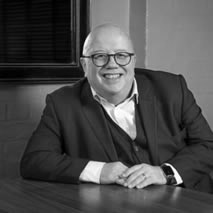
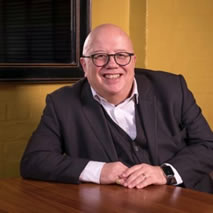
Applies greyscale to imgs in authors.js + loads authors with a test_book

diff --git a/pages/authors/index.js b/pages/authors/index.js
@@ -16,12 +16,15 @@ const Authors = ({ allAuthorData }) => {
         return (
             <Link href={`/authors/${author.id}`} className={styles.gridItem} key={author.id}>
                 <a>
-                    <Image 
-                        src={author.image}
-                        alt={`${author.first_name} ${author.last_name}`}
-                        width={400}
-                        height={500}
-                    />
+                        <Image 
+                            className={styles.img}
+                            src={author.image}
+                            alt={`${author.first_name} ${author.last_name}`}
+                            
+                            width={400}
+                            height={500}
+                            
+                        />
                     <h2 className={styles.authorTitle}>{author.first_name} {author.last_name}</h2>
                 </a>
             </Link>
@@ -50,12 +53,12 @@ const getStaticProps = async () => {
     const allAuthorData = getAllAuthorData();
     allAuthorData.map((author) => {
         console.log('author', author)
-        author.book_releases.map((book_release) => {
-            const dateObj = new Date(book_release.release_date)
-            const dateString = dateObj.toLocaleDateString("en-GB", { day: 'numeric', month: 'long', year: 'numeric' })
-            book_release.release_date = dateString;
-            return book_release;
-        })
+        // author.book_releases.map((book_release) => {
+        //     const dateObj = new Date(book_release.release_date)
+        //     const dateString = dateObj.toLocaleDateString("en-GB", { day: 'numeric', month: 'long', year: 'numeric' })
+        //     book_release.release_date = dateString;
+        //     return book_release;
+        // })
         const dateObj = new Date(author.date)
         const dateString = dateObj.toLocaleDateString("en-GB", { day: 'numeric', month: 'long', year: 'numeric' })
         author.date = dateString;

diff --git a/styles/Authors.module.css b/styles/Authors.module.css
@@ -13,6 +13,14 @@
     font-family: 'Open Sans', sans-serif;
     font-weight: 600;
 }
+.img {
+    object-fit: cover;
+    -webkit-filter: grayscale(100%);
+    -moz-filter: grayscale(100%);
+    -ms-filter: grayscale(100%);
+    filter: grayscale(100%);
+    filter: gray; /* IE 6-9 */
+}
 @media screen and (min-width: 768px) {
     .gridWrapper {
         /* margin: -7rem auto; */

diff --git a/styles/AuthorID.module.css b/styles/AuthorID.module.css
@@ -3,7 +3,7 @@
     position: unset !important;
 }
 .image {
-    object-fit: contain;
+    object-fit: cover;
     width: 100% !important;
     position: relative !important;
     height: unset !important;

diff --git a/_books/allen_test_book.md b/_books/allen_test_book.md
@@ -1,0 +1,18 @@
+---
+authors_first_name: Philippa
+authors_last_name: Langley
+title: Test Book
+publish_date: 2022-04-28T10:19:00.772Z
+genre: history
+image: /images/book_images/langley_the_kings_grave.jpg
+book_reviews:
+    - review: The book was fabulous!
+      by: The Sunday Times
+    - review: Highly recommend 
+      by: New York Times
+---
+The real life, death and remarkable discovery of history's most controversial monarch.
+
+On 22 August 1485 Richard III was killed at Bosworth Field, the last king of England to die in battle. His victorious opponent, Henry Tudor (the future Henry VII), went on to found one of our most famous ruling dynasties. Richard's body was displayed in undignified fashion for two days in nearby Leicester and then hurriedly buried in the church of the Greyfriars. Fifty years later, at the time of the dissolution of the monasteries, the king's grave was lost - its contents believed to be emptied into the river Soar - and Richard III's reputation buried under a mound of Tudor propaganda. Its culmination was Shakespeare's compelling portrayal of a deformed and murderous villain, written over a hundred years after Richard's death.
+
+Now - in an incredible find - Richard III's remains have been uncovered beneath a car park in Leicester. The King's Grave traces this remarkable journey. In alternate chapters, Philippa Langley, whose years of research and belief that she would find Richard in this exact spot inspired the project, reveals the inside story of the search for the king's grave, and historian Michael Jones tells of Richard's fifteenth-century life and death. The result is a compelling portrayal of one of our greatest archaeological discoveries, allowing a complete re-evaluation of our most controversial monarch - one that discards the distortions of later Tudor histories and puts the man firmly back into the context of his times.

diff --git a/_books/ambrose_test_book.md b/_books/ambrose_test_book.md
@@ -1,0 +1,18 @@
+---
+authors_first_name: Philippa
+authors_last_name: Langley
+title: Test Book
+publish_date: 2022-04-28T10:19:00.772Z
+genre: history
+image: /images/book_images/langley_the_kings_grave.jpg
+book_reviews:
+    - review: The book was fabulous!
+      by: The Sunday Times
+    - review: Highly recommend 
+      by: New York Times
+---
+The real life, death and remarkable discovery of history's most controversial monarch.
+
+On 22 August 1485 Richard III was killed at Bosworth Field, the last king of England to die in battle. His victorious opponent, Henry Tudor (the future Henry VII), went on to found one of our most famous ruling dynasties. Richard's body was displayed in undignified fashion for two days in nearby Leicester and then hurriedly buried in the church of the Greyfriars. Fifty years later, at the time of the dissolution of the monasteries, the king's grave was lost - its contents believed to be emptied into the river Soar - and Richard III's reputation buried under a mound of Tudor propaganda. Its culmination was Shakespeare's compelling portrayal of a deformed and murderous villain, written over a hundred years after Richard's death.
+
+Now - in an incredible find - Richard III's remains have been uncovered beneath a car park in Leicester. The King's Grave traces this remarkable journey. In alternate chapters, Philippa Langley, whose years of research and belief that she would find Richard in this exact spot inspired the project, reveals the inside story of the search for the king's grave, and historian Michael Jones tells of Richard's fifteenth-century life and death. The result is a compelling portrayal of one of our greatest archaeological discoveries, allowing a complete re-evaluation of our most controversial monarch - one that discards the distortions of later Tudor histories and puts the man firmly back into the context of his times.

diff --git a/_books/andress_test_book.md b/_books/andress_test_book.md
@@ -1,0 +1,18 @@
+---
+authors_first_name: Philippa
+authors_last_name: Langley
+title: Test Book
+publish_date: 2022-04-28T10:19:00.772Z
+genre: history
+image: /images/book_images/langley_the_kings_grave.jpg
+book_reviews:
+    - review: The book was fabulous!
+      by: The Sunday Times
+    - review: Highly recommend 
+      by: New York Times
+---
+The real life, death and remarkable discovery of history's most controversial monarch.
+
+On 22 August 1485 Richard III was killed at Bosworth Field, the last king of England to die in battle. His victorious opponent, Henry Tudor (the future Henry VII), went on to found one of our most famous ruling dynasties. Richard's body was displayed in undignified fashion for two days in nearby Leicester and then hurriedly buried in the church of the Greyfriars. Fifty years later, at the time of the dissolution of the monasteries, the king's grave was lost - its contents believed to be emptied into the river Soar - and Richard III's reputation buried under a mound of Tudor propaganda. Its culmination was Shakespeare's compelling portrayal of a deformed and murderous villain, written over a hundred years after Richard's death.
+
+Now - in an incredible find - Richard III's remains have been uncovered beneath a car park in Leicester. The King's Grave traces this remarkable journey. In alternate chapters, Philippa Langley, whose years of research and belief that she would find Richard in this exact spot inspired the project, reveals the inside story of the search for the king's grave, and historian Michael Jones tells of Richard's fifteenth-century life and death. The result is a compelling portrayal of one of our greatest archaeological discoveries, allowing a complete re-evaluation of our most controversial monarch - one that discards the distortions of later Tudor histories and puts the man firmly back into the context of his times.

diff --git a/_books/arnott_test_book.md b/_books/arnott_test_book.md
@@ -1,0 +1,18 @@
+---
+authors_first_name: Philippa
+authors_last_name: Langley
+title: Test Book
+publish_date: 2022-04-28T10:19:00.772Z
+genre: history
+image: /images/book_images/langley_the_kings_grave.jpg
+book_reviews:
+    - review: The book was fabulous!
+      by: The Sunday Times
+    - review: Highly recommend 
+      by: New York Times
+---
+The real life, death and remarkable discovery of history's most controversial monarch.
+
+On 22 August 1485 Richard III was killed at Bosworth Field, the last king of England to die in battle. His victorious opponent, Henry Tudor (the future Henry VII), went on to found one of our most famous ruling dynasties. Richard's body was displayed in undignified fashion for two days in nearby Leicester and then hurriedly buried in the church of the Greyfriars. Fifty years later, at the time of the dissolution of the monasteries, the king's grave was lost - its contents believed to be emptied into the river Soar - and Richard III's reputation buried under a mound of Tudor propaganda. Its culmination was Shakespeare's compelling portrayal of a deformed and murderous villain, written over a hundred years after Richard's death.
+
+Now - in an incredible find - Richard III's remains have been uncovered beneath a car park in Leicester. The King's Grave traces this remarkable journey. In alternate chapters, Philippa Langley, whose years of research and belief that she would find Richard in this exact spot inspired the project, reveals the inside story of the search for the king's grave, and historian Michael Jones tells of Richard's fifteenth-century life and death. The result is a compelling portrayal of one of our greatest archaeological discoveries, allowing a complete re-evaluation of our most controversial monarch - one that discards the distortions of later Tudor histories and puts the man firmly back into the context of his times.

diff --git a/_books/blackhurst_test_book.md b/_books/blackhurst_test_book.md
@@ -1,0 +1,18 @@
+---
+authors_first_name: Philippa
+authors_last_name: Langley
+title: Test Book
+publish_date: 2022-04-28T10:19:00.772Z
+genre: history
+image: /images/book_images/langley_the_kings_grave.jpg
+book_reviews:
+    - review: The book was fabulous!
+      by: The Sunday Times
+    - review: Highly recommend 
+      by: New York Times
+---
+The real life, death and remarkable discovery of history's most controversial monarch.
+
+On 22 August 1485 Richard III was killed at Bosworth Field, the last king of England to die in battle. His victorious opponent, Henry Tudor (the future Henry VII), went on to found one of our most famous ruling dynasties. Richard's body was displayed in undignified fashion for two days in nearby Leicester and then hurriedly buried in the church of the Greyfriars. Fifty years later, at the time of the dissolution of the monasteries, the king's grave was lost - its contents believed to be emptied into the river Soar - and Richard III's reputation buried under a mound of Tudor propaganda. Its culmination was Shakespeare's compelling portrayal of a deformed and murderous villain, written over a hundred years after Richard's death.
+
+Now - in an incredible find - Richard III's remains have been uncovered beneath a car park in Leicester. The King's Grave traces this remarkable journey. In alternate chapters, Philippa Langley, whose years of research and belief that she would find Richard in this exact spot inspired the project, reveals the inside story of the search for the king's grave, and historian Michael Jones tells of Richard's fifteenth-century life and death. The result is a compelling portrayal of one of our greatest archaeological discoveries, allowing a complete re-evaluation of our most controversial monarch - one that discards the distortions of later Tudor histories and puts the man firmly back into the context of his times.

diff --git a/_books/bonavero_test_book.md b/_books/bonavero_test_book.md
@@ -1,0 +1,18 @@
+---
+authors_first_name: Philippa
+authors_last_name: Langley
+title: Test Book
+publish_date: 2022-04-28T10:19:00.772Z
+genre: history
+image: /images/book_images/langley_the_kings_grave.jpg
+book_reviews:
+    - review: The book was fabulous!
+      by: The Sunday Times
+    - review: Highly recommend 
+      by: New York Times
+---
+The real life, death and remarkable discovery of history's most controversial monarch.
+
+On 22 August 1485 Richard III was killed at Bosworth Field, the last king of England to die in battle. His victorious opponent, Henry Tudor (the future Henry VII), went on to found one of our most famous ruling dynasties. Richard's body was displayed in undignified fashion for two days in nearby Leicester and then hurriedly buried in the church of the Greyfriars. Fifty years later, at the time of the dissolution of the monasteries, the king's grave was lost - its contents believed to be emptied into the river Soar - and Richard III's reputation buried under a mound of Tudor propaganda. Its culmination was Shakespeare's compelling portrayal of a deformed and murderous villain, written over a hundred years after Richard's death.
+
+Now - in an incredible find - Richard III's remains have been uncovered beneath a car park in Leicester. The King's Grave traces this remarkable journey. In alternate chapters, Philippa Langley, whose years of research and belief that she would find Richard in this exact spot inspired the project, reveals the inside story of the search for the king's grave, and historian Michael Jones tells of Richard's fifteenth-century life and death. The result is a compelling portrayal of one of our greatest archaeological discoveries, allowing a complete re-evaluation of our most controversial monarch - one that discards the distortions of later Tudor histories and puts the man firmly back into the context of his times.

diff --git a/_books/borum_test_book.md b/_books/borum_test_book.md
@@ -1,0 +1,18 @@
+---
+authors_first_name: Philippa
+authors_last_name: Langley
+title: Test Book
+publish_date: 2022-04-28T10:19:00.772Z
+genre: history
+image: /images/book_images/langley_the_kings_grave.jpg
+book_reviews:
+    - review: The book was fabulous!
+      by: The Sunday Times
+    - review: Highly recommend 
+      by: New York Times
+---
+The real life, death and remarkable discovery of history's most controversial monarch.
+
+On 22 August 1485 Richard III was killed at Bosworth Field, the last king of England to die in battle. His victorious opponent, Henry Tudor (the future Henry VII), went on to found one of our most famous ruling dynasties. Richard's body was displayed in undignified fashion for two days in nearby Leicester and then hurriedly buried in the church of the Greyfriars. Fifty years later, at the time of the dissolution of the monasteries, the king's grave was lost - its contents believed to be emptied into the river Soar - and Richard III's reputation buried under a mound of Tudor propaganda. Its culmination was Shakespeare's compelling portrayal of a deformed and murderous villain, written over a hundred years after Richard's death.
+
+Now - in an incredible find - Richard III's remains have been uncovered beneath a car park in Leicester. The King's Grave traces this remarkable journey. In alternate chapters, Philippa Langley, whose years of research and belief that she would find Richard in this exact spot inspired the project, reveals the inside story of the search for the king's grave, and historian Michael Jones tells of Richard's fifteenth-century life and death. The result is a compelling portrayal of one of our greatest archaeological discoveries, allowing a complete re-evaluation of our most controversial monarch - one that discards the distortions of later Tudor histories and puts the man firmly back into the context of his times.
